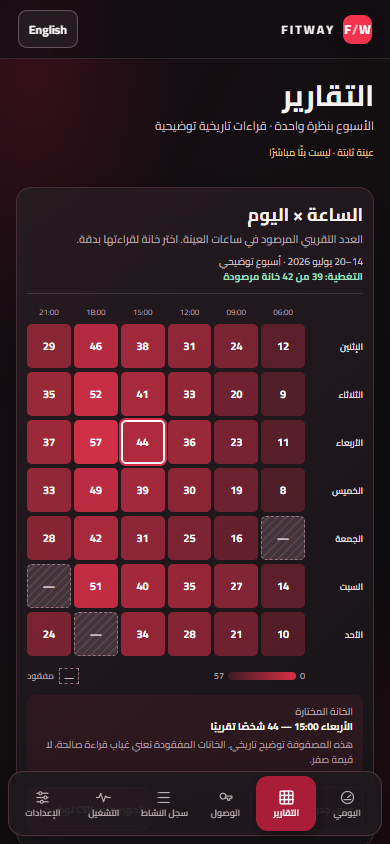
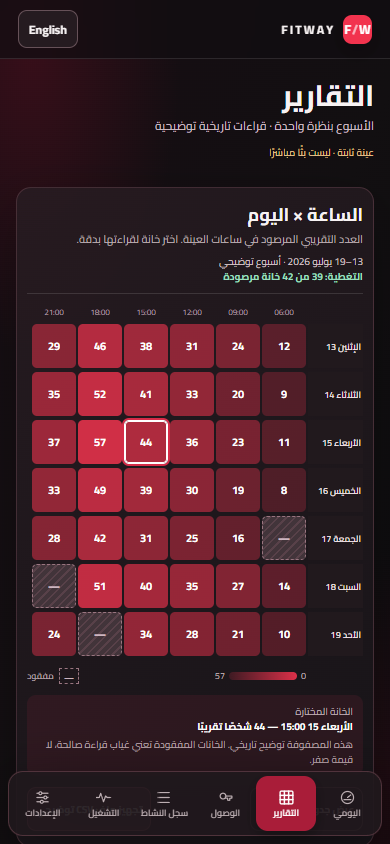
Repair Owner concept 03 report dates and narrow-screen access

diff --git a/design-research/owner-composition-exploration-r03/concepts/direction-03/style.css b/design-research/owner-composition-exploration-r03/concepts/direction-03/style.css
@@ -93,6 +93,7 @@ h2{font-size:21px;line-height:1.35;font-weight:700}
 .matrix-heading{display:flex;justify-content:space-between;align-items:start;gap:20px;padding-block-end:17px;border-block-end:1px solid rgba(255,255,255,.12)}
 .matrix-date{display:flex;flex-direction:column;align-items:end;color:#d2c1c5;font-size:12px;line-height:1.5}.matrix-date strong{color:var(--mint);font-size:12px}
 .matrix-shell{width:100%;display:grid;gap:6px;margin-block:16px}
+.matrix-scroll-hint{display:none}
 .matrix-axis,.matrix-row{display:grid;grid-template-columns:100px repeat(6,minmax(0,1fr));gap:6px;align-items:center}
 .matrix-axis span{text-align:center;color:#ab9aa0;font-size:11px;font-variant-numeric:tabular-nums}.matrix-row strong{font-size:12px;font-weight:600;color:#eee1e3}
 .heat-cell{height:45px;border:1px solid transparent;border-radius:7px;background:rgba(242,51,78,var(--level));color:#fff;font-size:13px;font-weight:700;font-variant-numeric:tabular-nums;transition:transform 140ms ease-out,box-shadow 140ms ease-out,border-color 140ms ease-out;position:relative}
@@ -102,14 +103,16 @@ h2{font-size:21px;line-height:1.35;font-weight:700}
 .report-actions{display:flex;justify-content:space-between;align-items:center;gap:12px;margin-block-start:17px}.text-action,.csv-action{min-height:44px;border-radius:9px;padding:8px 14px;font-size:12px;font-weight:700}
 .text-action{border:1px solid #76515b;background:transparent;color:#f3dee3;display:inline-flex;align-items:center;gap:8px}.text-action svg{width:16px;height:16px}.text-action:hover{background:#432632}.csv-action{border:1px solid #ad5a6b;background:#552c39;color:#fff}.csv-action:hover{background:#70404e}
 .feedback{position:fixed;z-index:12;inset-inline-end:24px;inset-block-end:98px;display:flex;align-items:center;gap:10px;max-width:min(450px,calc(100vw - 36px));background:#21332c;border:1px solid #75a98d;color:#e9fff1;padding:11px 16px;border-radius:10px;box-shadow:0 12px 34px rgba(0,0,0,.4);font-size:12px}.feedback svg{width:18px;height:18px;flex:none}
-.table-wrap{overflow-x:auto;margin-block-start:15px}.visually-hidden-table{position:absolute!important;width:1px;height:1px;overflow:hidden;clip:rect(0,0,0,0);white-space:nowrap}
+.table-wrap{overflow-x:auto;margin-block-start:15px}.table-wrap:focus-visible,.matrix-shell:focus-visible{outline:3px solid var(--focus);outline-offset:3px}.visually-hidden-table{position:absolute!important;width:1px;height:1px;overflow:hidden;clip:rect(0,0,0,0);white-space:nowrap}
 table{border-collapse:collapse;width:100%;min-width:510px;font-size:12px}caption{text-align:start;color:#bfb0b5;margin-block-end:8px}th,td{border-block-end:1px solid #62444e;padding:6px 8px;text-align:start}td{font-variant-numeric:tabular-nums}
 .placeholder-layout{max-width:880px}.preview-note{display:flex;gap:24px;align-items:center;padding:35px;background:rgba(52,32,40,.66);border:1px solid #674650;border-radius:18px}.preview-glyph{display:grid;place-items:center;width:70px;height:70px;border-radius:16px;background:#6c1c31;color:#fff;flex:none}.preview-glyph svg{width:30px;height:30px}.preview-note strong{font-size:21px}.preview-note p{color:#c4b3b8;line-height:1.8;font-size:14px;margin-block-start:5px}
 @media(max-width:900px){main{width:min(100% - 44px,800px)}.cockpit{grid-template-columns:1fr}.telemetry{border-inline-start:0;border-block-start:1px solid rgba(255,255,255,.13)}.telemetry-row{padding-block-end:12px}.period-track{grid-template-columns:repeat(2,minmax(0,1fr))}.period:nth-child(2){border-inline-end:0}.period:nth-child(-n+2){border-block-end:1px solid rgba(255,255,255,.11)}.nav-item{flex-direction:column;gap:0;font-size:10px}.nav-item svg{width:19px;height:19px}}
 @media(max-width:580px){.topbar{height:59px;padding-inline:18px}.brand{gap:8px}.brand-mark{width:29px;height:29px;font-size:13px}.brand-name{font-size:12px}.brand-separator,.owner-name,.sample-indicator{display:none}.top-actions{gap:5px}.language-button{min-height:38px;padding:5px 10px}main{width:calc(100% - 32px);padding-block:21px 110px}.page-lead{align-items:start;margin-block-end:17px}.page-lead p{font-size:12px;line-height:1.5}.concept-stamp{display:none}h1{font-size:29px}.cockpit{border-radius:16px;min-height:0}.readout{padding:16px 19px 13px}.readout-body{padding-block:8px 3px;align-items:end}.count{gap:9px}.count strong{font-size:67px}.count span{font-size:11px;max-width:110px}.crowd-band{gap:5px;margin-block-end:9px}.crowd-band strong{font-size:17px}.band-dashes{display:none}.observed-time{font-size:10px;padding-block-start:8px}.telemetry{padding:8px 17px 11px}.telemetry-row{align-items:center;padding-block-end:7px;gap:10px}.telemetry-row>div{flex-direction:row;align-items:baseline;gap:7px}.telemetry-row strong{font-size:25px}.telemetry-row p{font-size:10px;max-width:190px}.telemetry-pair{padding-block-start:7px;gap:10px}.telemetry-pair>div{display:block}.telemetry-pair>div+div{padding-inline-start:11px}.telemetry-label{font-size:10px}.telemetry-pair strong{display:inline;font-size:20px;margin-inline-start:6px}.telemetry-pair small{display:block;font-size:9px}.period-section{margin-block-start:18px}.section-heading{display:block;margin-block-end:10px}h2{font-size:18px}.section-heading p{font-size:11px}.legend{gap:10px;font-size:9px;margin-block-start:7px}.period-track{border-radius:13px}.period{padding:9px 10px 7px;min-height:123px}.period-name{font-size:12px}.period-time{font-size:10px}.bars{height:51px;gap:3px;margin-block-start:4px}.period-foot{font-size:9px}.detail-strip{display:block;padding:8px 11px;font-size:10px}.detail-strip p{margin-block-start:1px}.truth-note{font-size:10px}.instrument-nav{width:calc(100% - 16px);inset-block-end:8px}.nav-shell{gap:1px;padding:4px;border-radius:15px}.nav-item{min-height:55px;padding:3px 1px;gap:2px;font-size:9px;line-height:1.1}.nav-item svg{width:17px;height:17px}.matrix-panel{padding:15px 10px;border-radius:15px}.matrix-heading{display:block;padding-block-end:9px}.matrix-heading p{font-size:11px}.matrix-date{align-items:start;margin-block-start:7px;font-size:10px}.matrix-date strong{font-size:10px}.matrix-shell{gap:4px;margin-block:11px}.matrix-axis,.matrix-row{grid-template-columns:55px repeat(6,minmax(0,1fr));gap:3px}.matrix-axis span{font-size:8px}.matrix-row strong{font-size:9px}.heat-cell{height:38px;border-radius:5px;font-size:11px;padding:0}.matrix-bottom{margin-inline-start:58px;font-size:9px;gap:4px}.ramp{width:68px}.ramp-label{display:none}.missing-key{margin-inline-start:auto}.cell-detail{display:block;margin-block-start:11px;padding:9px 10px;font-size:10px}.cell-detail strong{display:block}.cell-detail span:last-child{display:block;max-width:none;margin-inline-start:0;margin-block-start:3px}.report-actions{margin-block-start:11px}.text-action,.csv-action{font-size:10px;padding:5px 8px;min-height:44px}.text-action svg{width:13px}.feedback{inset-inline:18px;inset-block-end:83px;max-width:none;font-size:11px}.preview-note{padding:20px;align-items:start;gap:12px}.preview-glyph{width:45px;height:45px;border-radius:10px}.preview-glyph svg{width:23px;height:23px}.preview-note strong{font-size:16px}.preview-note p{font-size:12px}}
-@media(max-width:350px){.nav-item{font-size:8px}.matrix-axis,.matrix-row{grid-template-columns:43px repeat(6,minmax(0,1fr));gap:2px}.matrix-row strong{font-size:8px}.matrix-bottom{margin-inline-start:45px}.heat-cell{font-size:10px}}
+@media(max-width:350px){.nav-item{font-size:8px}.matrix-row strong{font-size:8px}.heat-cell{font-size:10px}}
 @media(max-width:580px){.mobile-truth{display:inline-block;color:var(--amber);font-size:10px;line-height:1.4;margin-block-start:5px}.page-lead{margin-block-end:14px}main{padding-block-start:19px}}
 @media(max-width:580px){.heat-cell{height:44px}.reports-layout{padding-block-end:30px}}
+@media(max-width:580px){.matrix-shell{overflow-x:auto;scrollbar-width:thin}.matrix-axis,.matrix-row{width:331px;min-width:331px;grid-template-columns:55px repeat(6,44px);gap:2px}.matrix-row strong{position:sticky;inset-inline-start:0;z-index:1;align-self:stretch;display:flex;align-items:center;background:#21191d;padding-inline:2px}.matrix-bottom{margin-inline-start:57px}}
+@media(max-width:350px){.matrix-scroll-hint{display:block;margin-block:9px 0;color:#ddc3ca;font-size:10px;line-height:1.4}.matrix-shell{border-inline-end:2px solid #b77b88;padding-block-end:4px}}
 /* Keep selected-period feedback and sample truth ahead of the banded chart. */
 .period-section .detail-strip{border-radius:10px}
 .period-section .truth-note{margin-block:8px 13px}

diff --git a/design-research/owner-composition-exploration-r03/concepts/direction-03/app.js b/design-research/owner-composition-exploration-r03/concepts/direction-03/app.js
@@ -59,13 +59,17 @@ const labels = {
 		matrixSub:
 			"Typical observed occupancy by sampled hour. Select a cell to read it precisely.",
 		matrixCoverage: "Coverage: 39 of 42 cells observed",
-		week: "14–20 July 2026 · sample week",
+		matrixScrollLabel: "Scrollable hour by day matrix",
+		matrixScrollHint: "Scroll across to read the later hours.",
+		week: "13–19 July 2026 · sample week",
+		valuesTableRegion: "Scrollable values table for 13–19 July 2026",
 		showTable: "Show values table",
 		hideTable: "Hide values table",
 		cellDetails: "Selected cell",
 		reportControl: "Prepare sample CSV",
+		reportControlLabel: "Prepare sample CSV for 13–19 July 2026",
 		reportFeedback:
-			"Sample preview prepared locally. No export or account action occurred.",
+			"Sample preview for 13–19 July 2026 prepared locally. No export or account action occurred.",
 		reportNote:
 			"This matrix is historical illustration. Missing cells mean no usable reading; they are not zero.",
 		mon: "Mon",
@@ -153,12 +157,17 @@ const labels = {
 		matrixSub:
 			"العدد التقريبي المرصود في ساعات العينة. اختر خانة لقراءتها بدقة.",
 		matrixCoverage: "التغطية: 39 من 42 خانة مرصودة",
-		week: "14–20 يوليو 2026 · أسبوع توضيحي",
+		matrixScrollLabel: "مصفوفة الأيام والساعات القابلة للتمرير",
+		matrixScrollHint: "مرّر أفقيًا لقراءة الساعات الأخرى.",
+		week: "13–19 يوليو 2026 · أسبوع توضيحي",
+		valuesTableRegion: "جدول قيم قابل للتمرير للأسبوع 13–19 يوليو 2026",
 		showTable: "عرض جدول القيم",
 		hideTable: "إخفاء جدول القيم",
 		cellDetails: "الخانة المختارة",
 		reportControl: "تجهيز ملف CSV توضيحي",
-		reportFeedback: "جُهزت معاينة محلية فقط. لم يحدث تصدير أو إجراء على الحساب.",
+		reportControlLabel: "تجهيز ملف CSV توضيحي للأسبوع 13–19 يوليو 2026",
+		reportFeedback:
+			"جُهزت معاينة محلية للأسبوع 13–19 يوليو 2026 فقط. لم يحدث تصدير أو إجراء على الحساب.",
 		reportNote:
 			"هذه المصفوفة توضيح تاريخي. الخانات المفقودة تعني غياب قراءة صالحة، لا قيمة صفر.",
 		mon: "الإثنين",
@@ -297,9 +306,17 @@ function daily() {
     </section>
   </div>`;
 }
-function cellName(day, hour, value) {
+const weekDates = [13, 14, 15, 16, 17, 18, 19];
+function dayName(day) {
 	return (
 		t(["mon", "tue", "wed", "thu", "fri", "sat", "sun"][day]) +
+		" " +
+		weekDates[day]
+	);
+}
+function cellName(day, hour, value) {
+	return (
+		dayName(day) +
 		" " +
 		hours[hour] +
 		":00 — " +
@@ -313,12 +330,12 @@ function reports() {
     ${lead(t("reportsTitle"), t("reportsSub"))}
     <section class="matrix-panel" aria-labelledby="matrix-title">
       <div class="matrix-heading"><div><h2 id="matrix-title">${t("matrixTitle")}</h2><p>${t("matrixSub")}</p></div><div class="matrix-date"><span>${t("week")}</span><strong>${t("matrixCoverage")}</strong></div></div>
-      <div class="matrix-shell"><div class="matrix-axis"><span></span>${hours.map((hour) => `<span dir="ltr">${hour}:00</span>`).join("")}</div>
-      ${matrix.map((row, i) => `<div class="matrix-row"><strong>${t(["mon", "tue", "wed", "thu", "fri", "sat", "sun"][i])}</strong>${row.map((v, j) => `<button type="button" class="heat-cell ${v === null ? "is-missing" : ""} ${d === i && h === j ? "is-selected" : ""}" data-cell="${i}-${j}" aria-label="${cellName(i, j, v)}" aria-pressed="${d === i && h === j}" style="--level:${v === null ? 0 : (0.13 + v / 80).toFixed(2)}"><span>${v === null ? "—" : v}</span></button>`).join("")}</div>`).join("")}</div>
+      <p class="matrix-scroll-hint">${t("matrixScrollHint")}</p><div class="matrix-shell" role="region" aria-label="${t("matrixScrollLabel")}" tabindex="0"><div class="matrix-axis"><span></span>${hours.map((hour) => `<span dir="ltr">${hour}:00</span>`).join("")}</div>
+      ${matrix.map((row, i) => `<div class="matrix-row"><strong>${dayName(i)}</strong>${row.map((v, j) => `<button type="button" class="heat-cell ${v === null ? "is-missing" : ""} ${d === i && h === j ? "is-selected" : ""}" data-cell="${i}-${j}" aria-label="${cellName(i, j, v)}" aria-pressed="${d === i && h === j}" style="--level:${v === null ? 0 : (0.13 + v / 80).toFixed(2)}"><span>${v === null ? "—" : v}</span></button>`).join("")}</div>`).join("")}</div>
       <div class="matrix-bottom"><span>0</span><div class="ramp" aria-hidden="true"></div><span>57</span><span class="ramp-label">${t("people")}</span><span class="missing-key"><i>—</i>${t("missing")}</span></div>
       <div class="cell-detail" aria-live="polite"><span>${t("cellDetails")}</span><strong>${cellName(d, h, value)}</strong><span>${t("reportNote")}</span></div>
-      <div class="report-actions"><button class="text-action" type="button" data-action="table" aria-expanded="${tableVisible}">${tableVisible ? t("hideTable") : t("showTable")} ${icon("arrow")}</button><button class="csv-action" type="button" data-action="export">${t("reportControl")}</button></div>
-      <div class="table-wrap ${tableVisible ? "" : "visually-hidden-table"}" id="values-table"><table><caption>${t("matrixTitle")} — ${t("week")}</caption><thead><tr><th scope="col">${t("dayColumn")}</th>${hours.map((hour) => `<th scope="col" dir="ltr">${hour}:00</th>`).join("")}</tr></thead><tbody>${matrix.map((row, i) => `<tr><th scope="row">${t(["mon", "tue", "wed", "thu", "fri", "sat", "sun"][i])}</th>${row.map((v) => `<td>${v === null ? t("missingCell") : v}</td>`).join("")}</tr>`).join("")}</tbody></table></div>
+      <div class="report-actions"><button class="text-action" type="button" data-action="table" aria-controls="values-table" aria-expanded="${tableVisible}">${tableVisible ? t("hideTable") : t("showTable")} ${icon("arrow")}</button><button class="csv-action" type="button" data-action="export" aria-label="${t("reportControlLabel")}">${t("reportControl")}</button></div>
+      <div class="table-wrap ${tableVisible ? "" : "visually-hidden-table"}" id="values-table" role="region" aria-label="${t("valuesTableRegion")}" tabindex="${tableVisible ? "0" : "-1"}"><table><caption>${t("matrixTitle")} — ${t("week")}</caption><thead><tr><th scope="col">${t("dayColumn")}</th>${hours.map((hour) => `<th scope="col" dir="ltr">${hour}:00</th>`).join("")}</tr></thead><tbody>${matrix.map((row, i) => `<tr><th scope="row">${dayName(i)}</th>${row.map((v) => `<td>${v === null ? t("missingCell") : v}</td>`).join("")}</tr>`).join("")}</tbody></table></div>
     </section>
     ${feedback ? `<div class="feedback" role="status">${icon("check")}<span>${t("reportFeedback")}</span></div>` : ""}
   </div>`;

diff --git a/design-research/owner-composition-exploration-r03/concepts/direction-03/README.md b/design-research/owner-composition-exploration-r03/concepts/direction-03/README.md
@@ -27,13 +27,13 @@ Those four destinations are navigation and composition notes in this slice; thei
 
 ## Data truth and scope
 
-All values and dates are deterministic synthetic examples. The labels on desktop and mobile state that this is a static sample, not a live feed. The 75% coverage figure describes illustrative expected minute readings through 15:07; the period tiles summarize only six selected readings each and are not the coverage denominator. The 59 estimated entries are entrance crossings, not unique members. The Reports matrix has 39 observed and 3 missing cells; missing is not zero. No visitor identity, image, frame, biometric, or per-visitor record is present or transmitted.
+All values and dates are deterministic synthetic examples. The labels on desktop and mobile state that this is a static sample, not a live feed. The 75% coverage figure describes illustrative expected minute readings through 15:07; the period tiles summarize only six selected readings each and are not the coverage denominator. The 59 estimated entries are entrance crossings, not unique members. The Reports matrix represents Monday 13 through Sunday 19 July 2026, with 39 observed and 3 missing cells; missing is not zero. The sample CSV feedback names that same week and performs no export. No visitor identity, image, frame, biometric, or per-visitor record is present or transmitted.
 
 For future full-surface work, the readout must switch content by actual state: loading uses a labeled skeleton; fresh uses an explicitly current observation; stale shows last-known value and time; closed or unavailable hides occupancy and crowd band; error drops retained readings and provides focused retry. This concept renders only a static open sample. Real route, export, access, schedule, audit, analytics, and API behavior remains governed by Product and Spec.
 
 ## Accessibility and limits
 
-The concept uses Cairo at actual 400/600/700 weights, Arabic RTL and English LTR with Western digits; native buttons, headings, landmarks, a skip link, visible focus, text labels for state, and reduced motion. Matrix cells are at least 44px tall on mobile. The selected Daily period detail and static-sample explanation precede the period bands so the bottom dock cannot cover their first-screen reading. The six-item mobile dock remains visible and the document scrolls beneath it with bottom padding; controls lower on Reports are reachable by scrolling. This is an early visual comparison, not a fully verified seven-surface product. It has no live data or authenticated behavior.
+The concept uses Cairo at actual 400/600/700 weights, Arabic RTL and English LTR with Western digits; native buttons, headings, landmarks, a skip link, visible focus, text labels for state, and reduced motion. Matrix cells are at least 44×44px on mobile. At 320px, the matrix scrolls internally with a visible continuation cue so each hour remains a distinct touch target; the region can receive keyboard focus. The revealed values table has a localized, focusable scroll region for keyboard access to its hidden columns. The selected Daily period detail and static-sample explanation precede the period bands so the bottom dock cannot cover their first-screen reading. The six-item mobile dock remains visible and the document scrolls beneath it with bottom padding; controls lower on Reports are reachable by scrolling. This is an early visual comparison, not a fully verified seven-surface product. It has no live data or authenticated behavior.
 
 ## Preview and evidence
 
@@ -41,4 +41,4 @@ From the repository root, run: node design-research/owner-composition-exploratio
 
 Then open: http://127.0.0.1:3113/design-research/owner-composition-exploration-r03/concepts/direction-03/index.html
 
-Query parameters lang=en|ar and section=daily|reports|access|activity|operations|settings select a state. The capture.playwright.txt function snippet captures eight exact viewport frames through the isolated Playwright CLI run-code command; verify.playwright.txt checks interactions, reflow, and reduced motion the same way. These snippets intentionally use a text extension because the repository JavaScript formatter appends a statement terminator that is invalid when the CLI wraps a function expression. The evidence files name Daily and Reports in EN/AR at 1440×900 and 390×844. They are concept review evidence, not canonical screenshots or acceptance authority.
+Query parameters lang=en|ar and section=daily|reports|access|activity|operations|settings select a state. The capture.playwright.txt function snippet captures sixteen exact viewport frames through the isolated Playwright CLI run-code command; verify.playwright.txt and verify-matrix.playwright.txt check interactions, dated rows, keyboard scrolling, target sizes, reflow, and reduced motion the same way. These snippets intentionally use a text extension because the repository JavaScript formatter appends a statement terminator that is invalid when the CLI wraps a function expression. The evidence files name Daily and Reports in EN/AR at 1440×900, 720×900, 390×844, and 320×844. All sixteen frames were opened and inspected at their exact pixel dimensions. They are concept review evidence, not canonical screenshots or acceptance authority.
